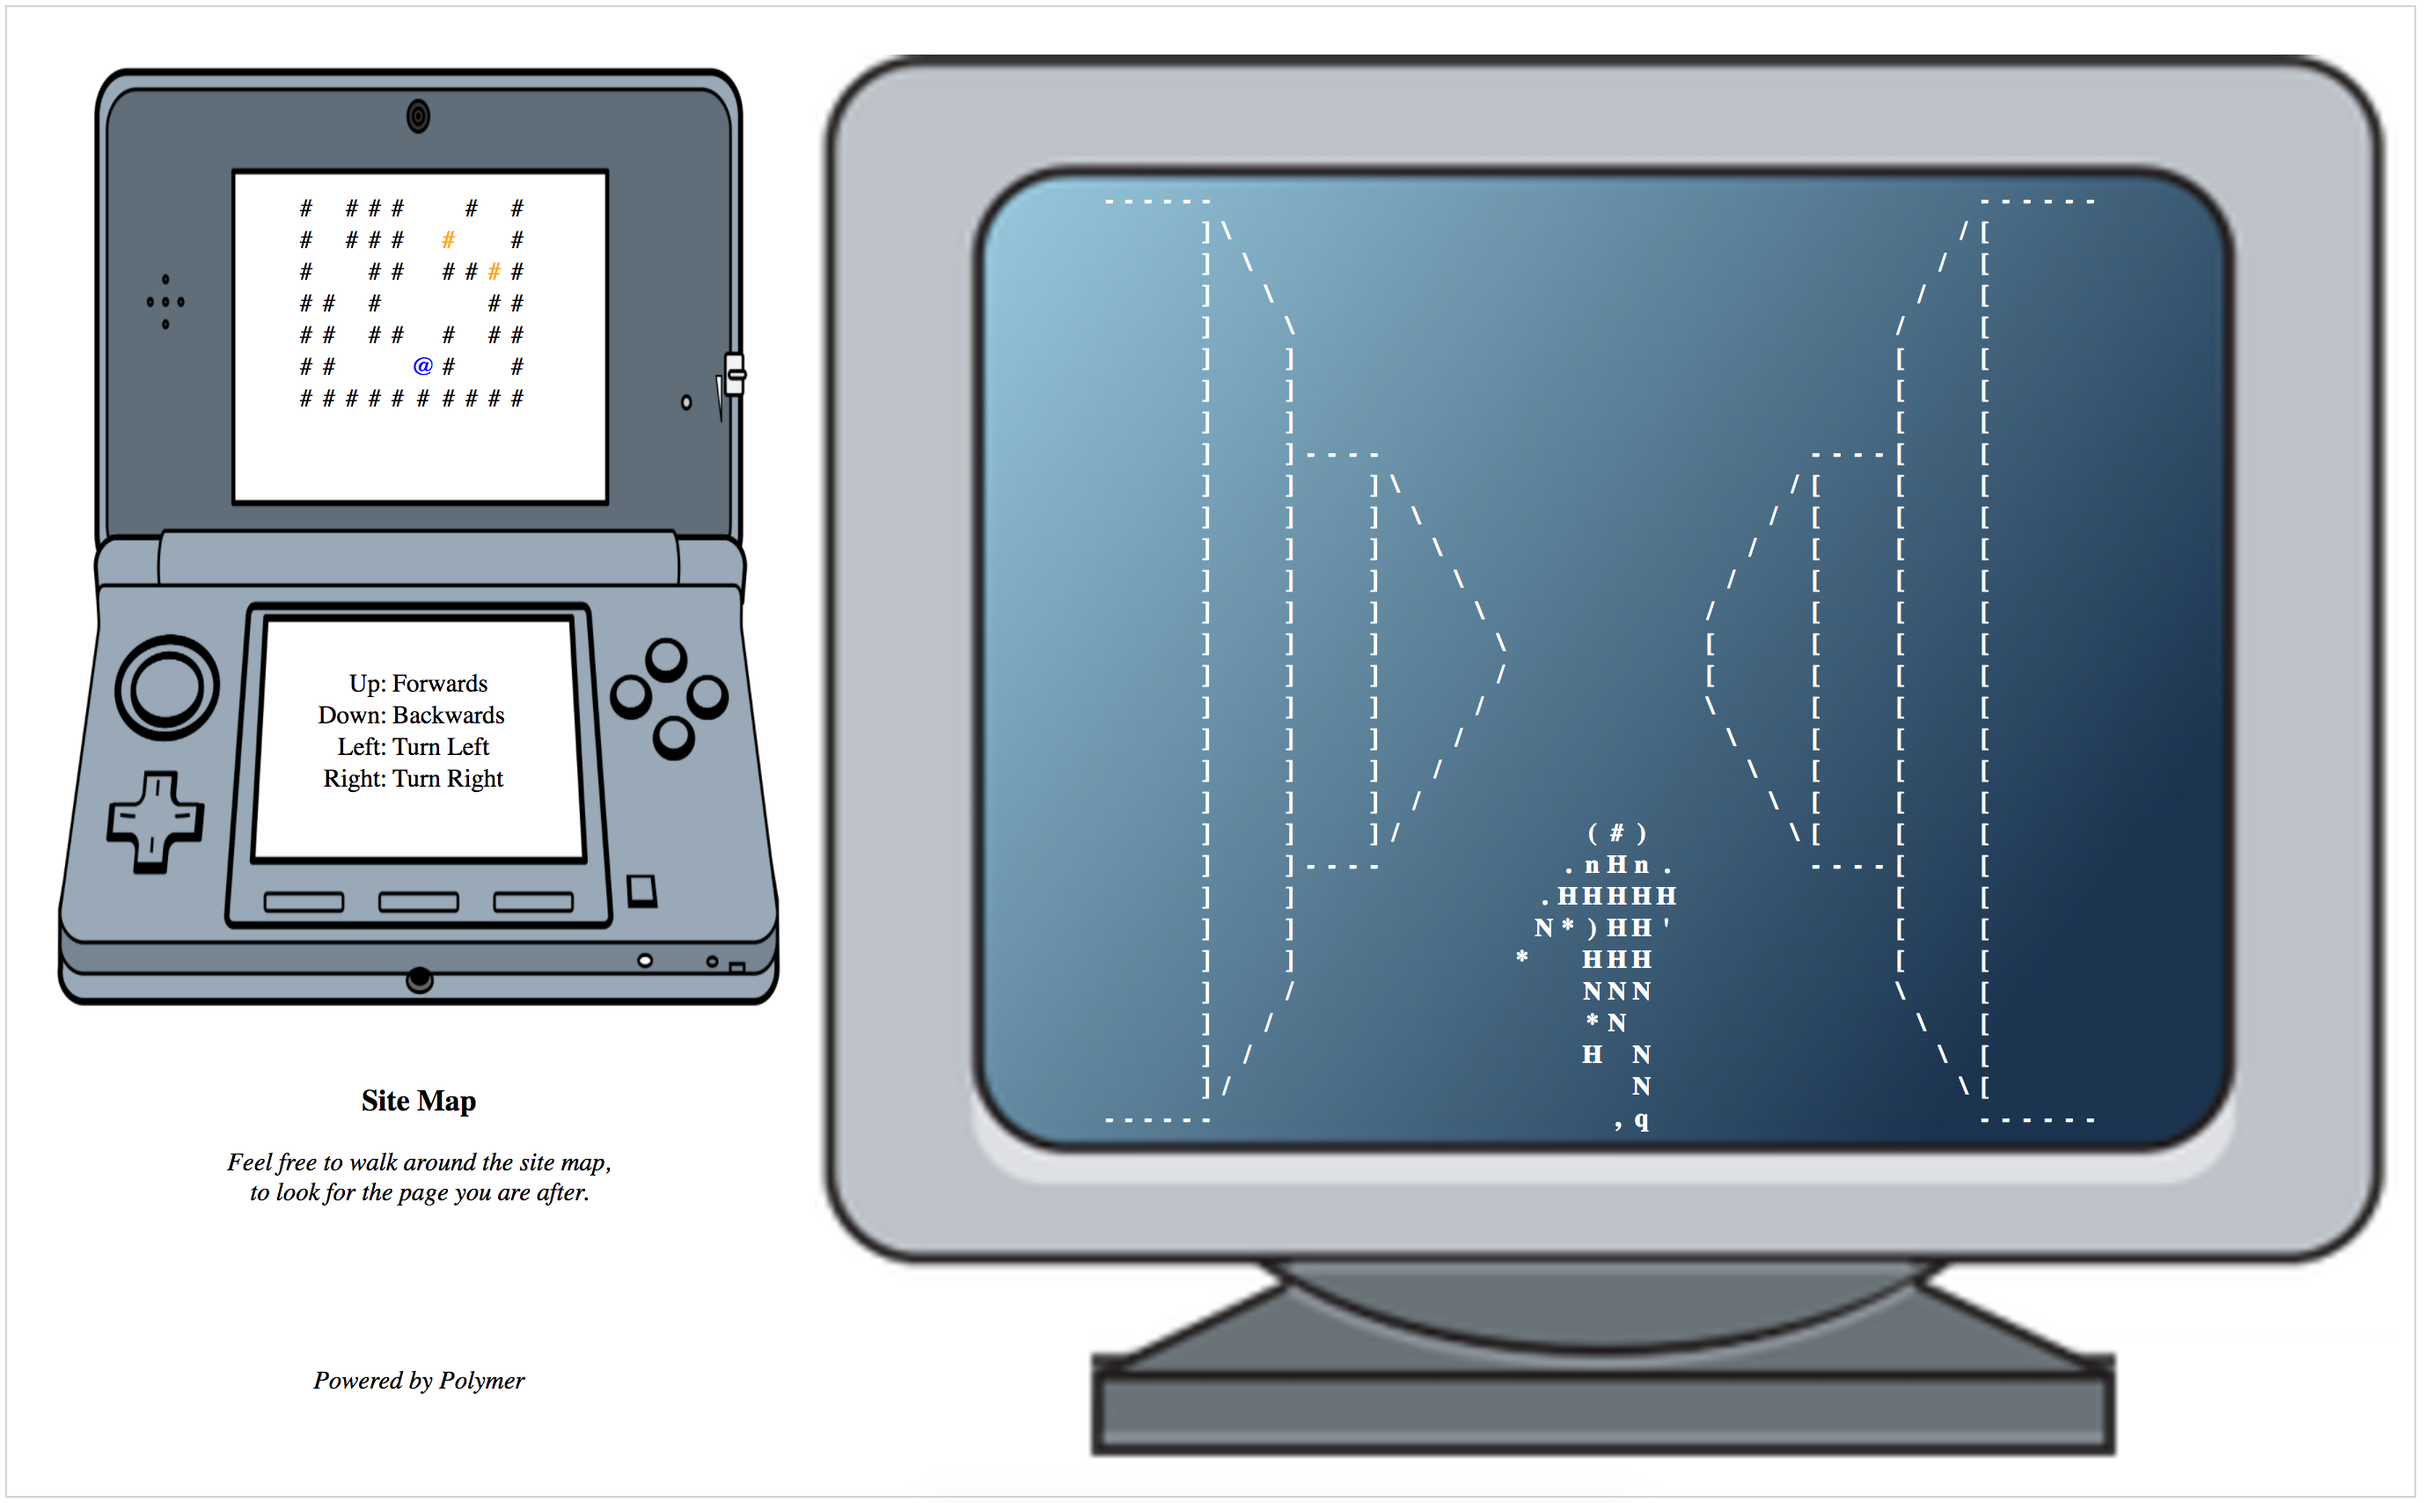
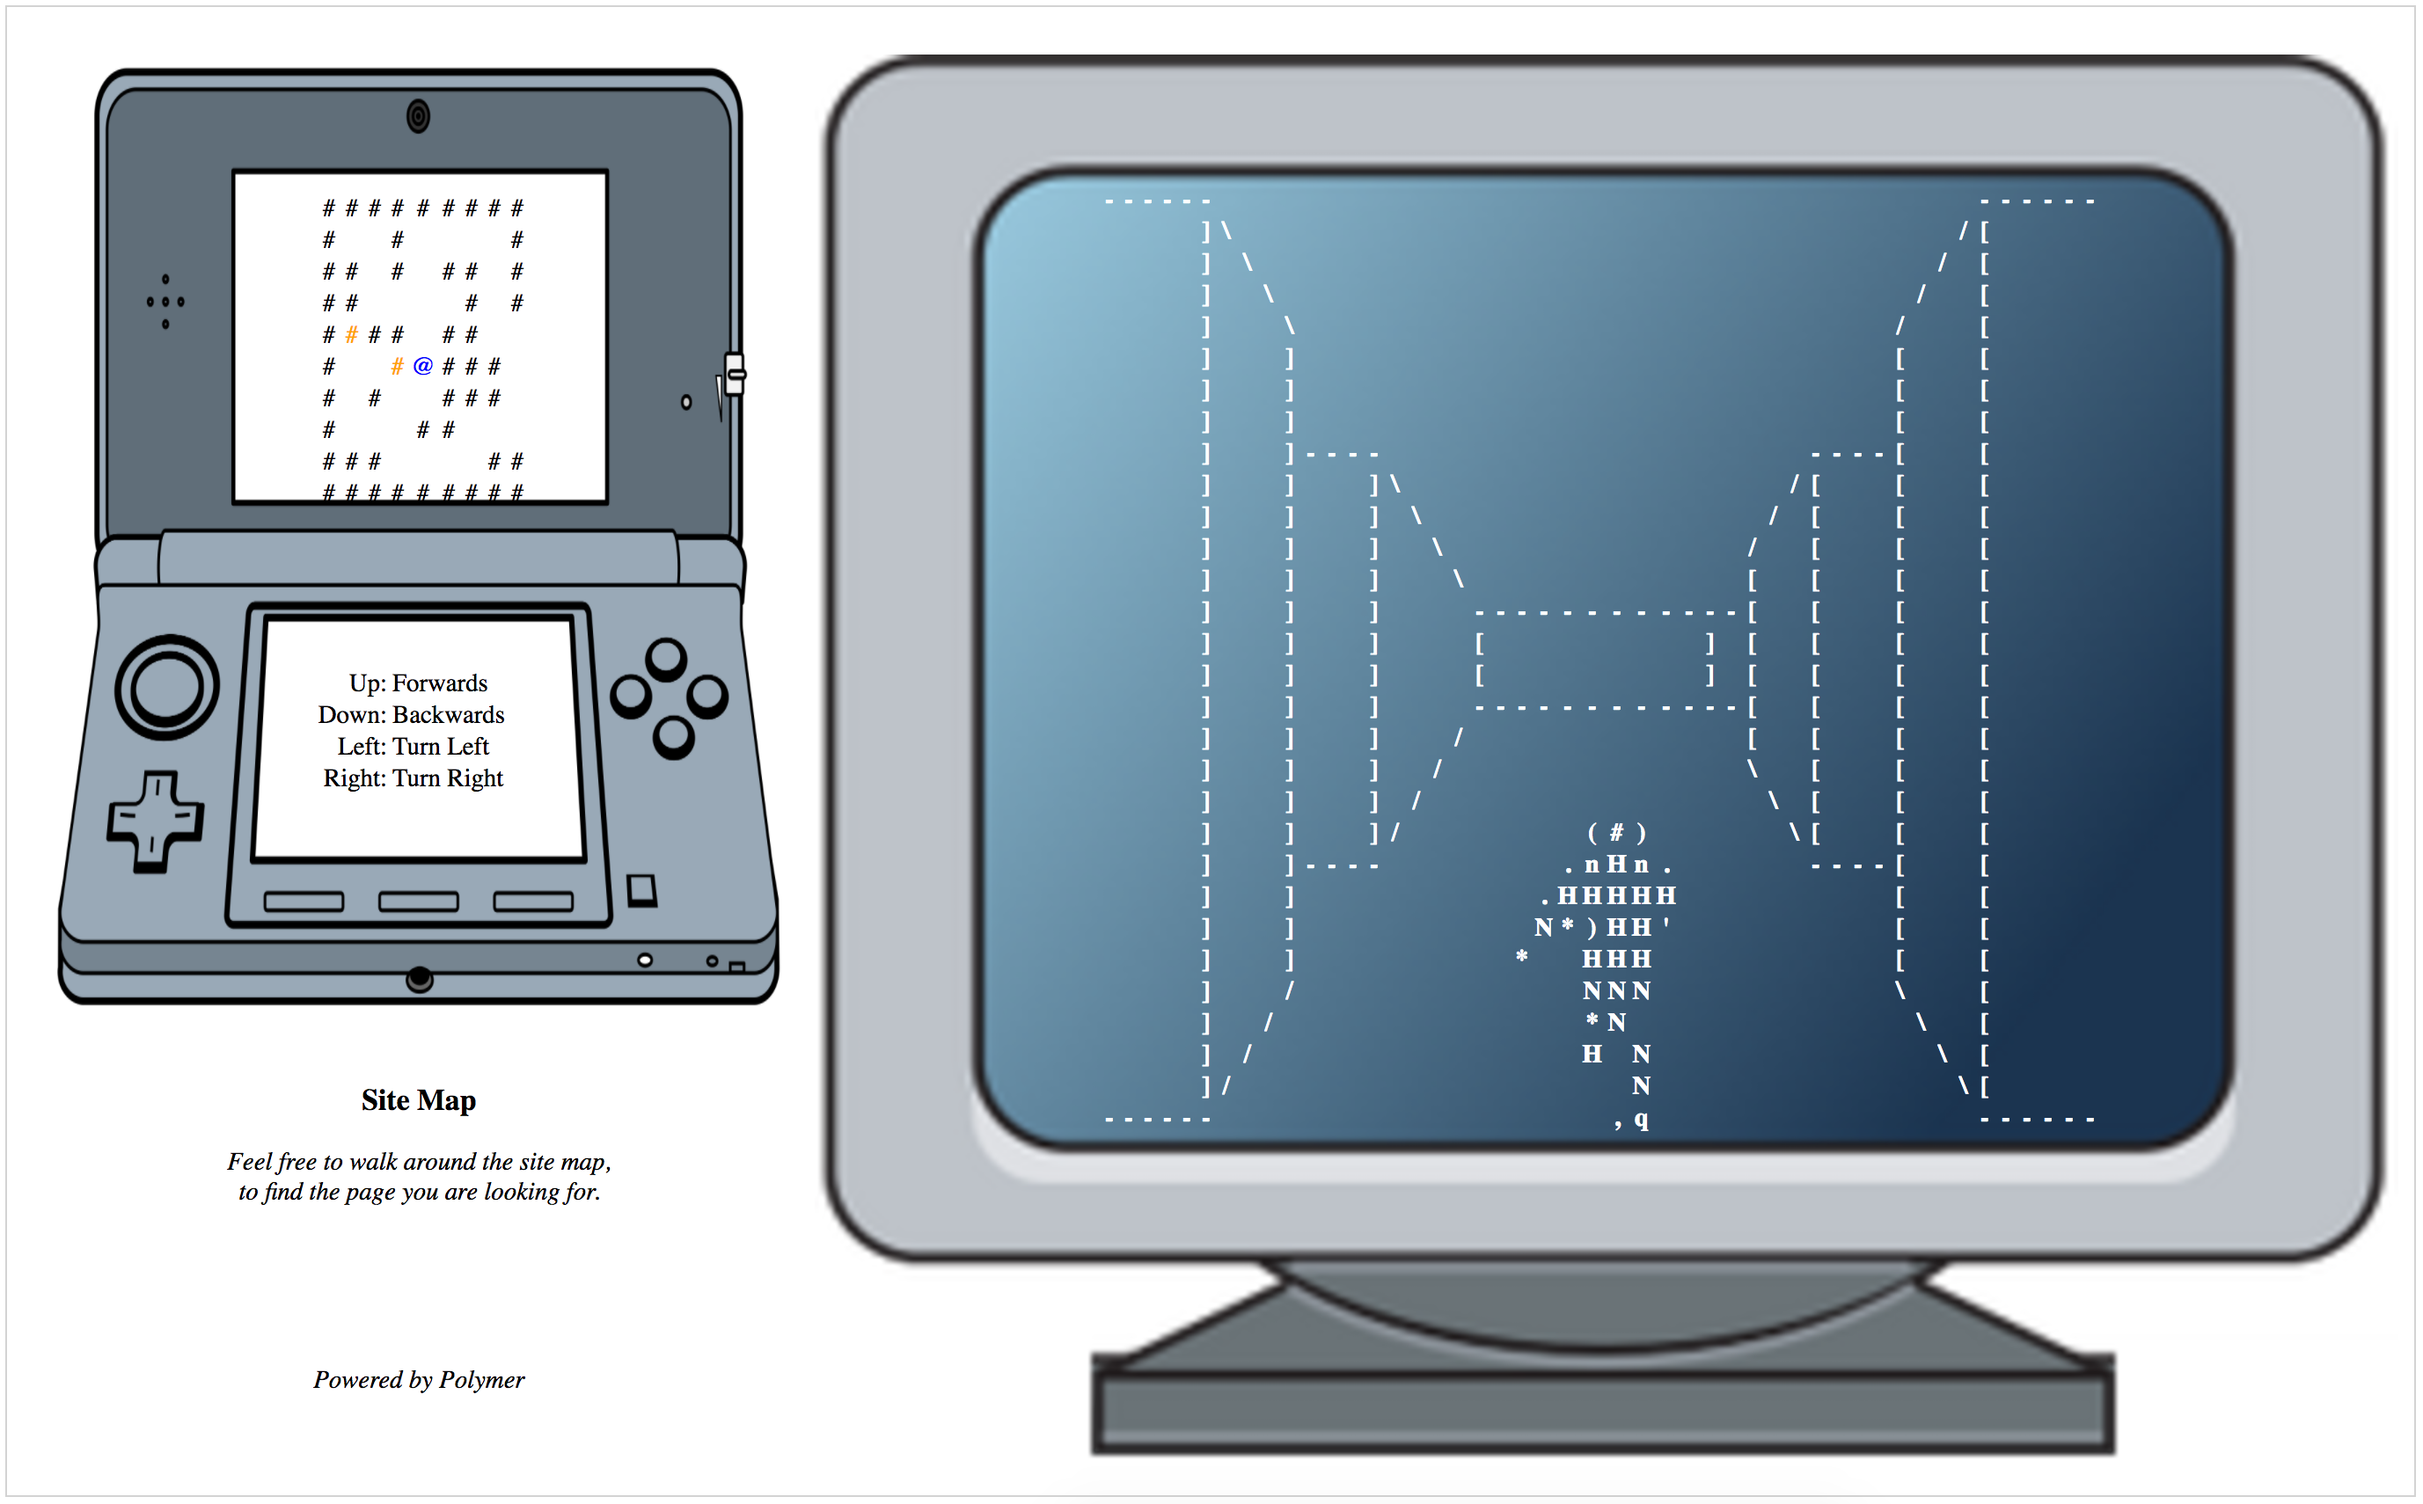
updated the screenshot again.

diff --git a/elements/tm-retro-background.html b/elements/tm-retro-background.html
@@ -50,7 +50,7 @@
     <div class="comment">
       <h3>Site Map</h3>
       <span>Feel free to walk around the site map,</span>
-      <span>to look for the page you are after.</span>
+      <span>to find the page you are looking for.</span>
     </div>
     <div class="logo">
       <span>Powered by Polymer</span>

diff --git a/docs/index.html b/docs/index.html
@@ -14,6 +14,6 @@
   </head>
   <body>
     <h3>Amazing Sitemap - Screenshot</h3>
-    <img width="100%" src="screenshot.png" alt="">
+    <img src="screenshot.png" alt="">
   </body>
 </html>
